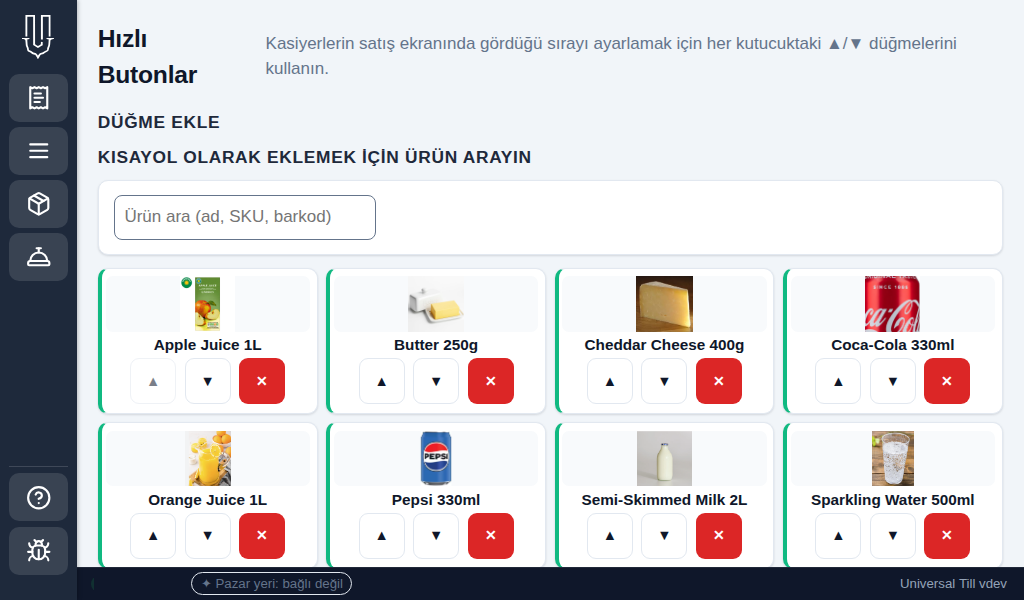
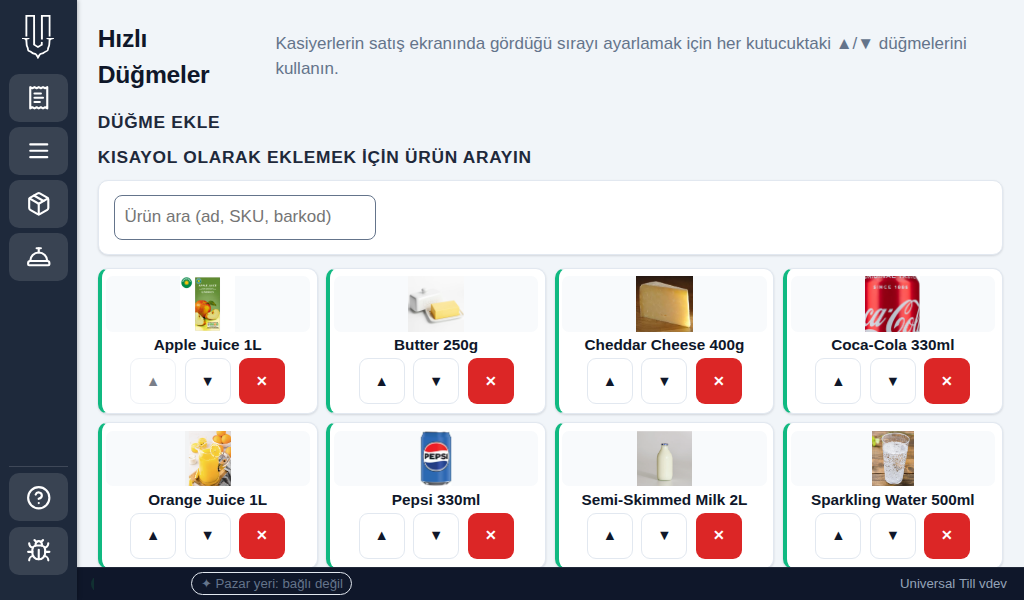
Address independent review findings: manual cross-references, terminology
Independent Opus review of this branch found the rename didn't reach
every place the old name was cross-referenced from, plus one
terminology inconsistency of its own making:

- catalog.md step 7, all 5 locales: still told the merchant to "use
  Till Designer"/"Kassen-Designer"/etc. to arrange quick-sale buttons —
  the manual's only cross-reference to this feature, now updated to
  match.
- German manual (reports.md, sell.md, order-status.md, self-order.md):
  "Journal" renamed to "Kassenjournal" throughout, matching nav.journal/
  journal.title's own fix in the previous commit. Added "kassenjournal"
  to reports.md's search keywords.
- Turkish: "Hızlı Butonlar" (introduced by this branch) didn't match
  the rest of the product's Turkish vocabulary, which consistently uses
  "düğme" (designer.buttons: "Düğmeler", designer.add_button: "Düğme
  ekle", and the till-designer topic's own prose). Renamed to "Hızlı
  Düğmeler" in nav.designer/designer.title/products.empty and the
  manual topic, with correct vowel-harmony suffixes.
- German pack: designer.search_title said "Schnelltasten" (a different,
  pre-existing word) where the renamed feature is "Schnellwahltasten" —
  aligned.
- web/ui/partials/buttons.html: updated a stale HTML comment (not
  user-facing, just dev-facing prose) referencing the old name.

Regenerated docs-shots (catalog and till-designer topics both changed)
and re-ran scripts/audit-nav-i18n-parity.sh — clean.
[…]

Changed region(s): [[0.25, 0.06, 0.9375, 0.12], [0.0938, 0.09, 0.2188, 0.15]]

diff --git a/web/ui/partials/buttons.html b/web/ui/partials/buttons.html
@@ -7,7 +7,7 @@
     <!-- 2026-08-30 (product owner, live on the tablet, comparing against a
          competitor POS): a quick "add a product" affordance right here,
          like SumUp's own item grid has — the empty state used to just say
-         "add some in Designer" with no actual link to get there. -->
+         "add some in Quick Buttons" with no actual link to get there. -->
     <a class="btn primary compact products-add" href="/designer" data-testid="products-add-link">+ {{ T "products.add" }}</a>
   </div>
     <p class="empty">{{ T "products.empty" }}</p>

diff --git a/web/help/de/sell.md b/web/help/de/sell.md
@@ -19,7 +19,7 @@ Der Hauptbildschirm der Kasse: Artikel scannen oder auswählen, Zahlung entgegen
 3. Passen Sie die Menge an oder entfernen Sie Zeilen im Warenkorb, und tippen Sie dann auf **Zahlung** — dies öffnet ein Feld über den Artikelschaltflächen (der Warenkorb bleibt links sichtbar), in dem Sie Bargeld, Karte oder eine andere Methode wählen, oder zum Reiter „Aufteilen“ wechseln, um mehr als eine Zahlung auf denselben Verkauf zu nehmen. Schließen Sie das Feld (✕), um zurückzugehen und den Warenkorb anzupassen, ohne zu bezahlen. Für den schnellsten Checkout können Sie das Feld ganz überspringen: Die breite ⚡-Schaltfläche unter „Verkauf halten“ und „Zahlung“ belastet den gesamten Verkauf mit einem Tipp an die bevorzugte Zahlungsmethode Ihres Geschäfts — dieselbe exakte Belastung wie die eigene Schaltfläche dieser Methode im Feld (bis eine bevorzugte Methode eingerichtet ist, wird Bargeld verwendet).
 4. Halten Sie einen Warenkorb, um den nächsten Kunden zu bedienen, und rufen Sie ihn später ab; Rückerstattungen finden Sie unter der Verkaufshistorie.
 5. Haben Sie Tische eingerichtet (siehe **Tische & Sitzplan**), tippen Sie auf die Schaltfläche **Tisch** neben dem Vor-Ort-/Außer-Haus-Schalter, um die Tischauswahl zu öffnen, und wählen Sie dann einen Tisch — oder „Kein Tisch“, um ihn zu leeren — und der Dialog schließt sich von selbst. Die Auswahl eines Tisches reserviert ihn sofort — die Auswahl bietet nur freie Tische an, und ist ein Tisch inzwischen belegt worden, teilt die Kasse mit, dass er bereits besetzt ist, und behält Ihre aktuelle Wahl bei. Die Schaltfläche „Tisch“ erscheint nur, solange der Verkauf noch jemanden setzen kann — ein leerer, auf Vor Ort gestellter Warenkorb, oder einer mit mindestens einem Vor-Ort-Artikel. Eine reine Außer-Haus-Bestellung kann keinem Tisch zugewiesen werden, und das Umschalten oder Entfernen des letzten Vor-Ort-Artikels löscht die Zuweisung. Beim Halten und späteren Abrufen eines Warenkorbs bleibt erhalten, ob Vor Ort oder Außer Haus aktiv war, als Sie ihn gehalten haben. Eine gehaltene **Vor-Ort**-Bestellung behält ihren Tisch, angezeigt als Chip auf der Leiste der gehaltenen Bestellungen; tippen Sie auf **Tisch wechseln** auf der Leiste, um sie auf einen anderen freien Tisch zu verschieben, ohne sie zu verlieren oder fortzusetzen. Eine gehaltene reine Außer-Haus-Bestellung hat keinen zu wechselnden Tisch — genau wie ihr vor dem Halten keiner zugewiesen werden konnte —, die Leiste zeigt für sie also keine Steuerung „Tisch wechseln“ an; eine gehaltene gemischte Bestellung behält ihren Tisch und kann ihn wie eine Vor-Ort-Bestellung wechseln.
-6. Um einen abgeschlossenen Verkauf zu erstatten, öffnen Sie ihn aus Journal → Verkaufshistorie: Wählen Sie, welche Zeilen und wie viel von jeder zurückgegeben werden, (bereits erstattete Menge wird nachverfolgt, sodass Sie nicht mehr zurückgeben können, als verkauft wurde), und wählen Sie dann Bargeld oder die ursprüngliche Zahlungsart für die Rückerstattung. Trug der ursprüngliche Verkauf eine Servicegebühr, kommt Ihr Anteil davon automatisch zurück, im Verhältnis dazu, wie viel des Verkaufs Sie erstatten — erstatten Sie alles, kommt auch die gesamte Servicegebühr zurück. Die Rückerstattungssumme aktualisiert sich live auf dem Bildschirm, während Sie Mengen anpassen, sodass Sie den Betrag vor dem Absenden prüfen können.
+6. Um einen abgeschlossenen Verkauf zu erstatten, öffnen Sie ihn aus Kassenjournal → Verkaufshistorie: Wählen Sie, welche Zeilen und wie viel von jeder zurückgegeben werden, (bereits erstattete Menge wird nachverfolgt, sodass Sie nicht mehr zurückgeben können, als verkauft wurde), und wählen Sie dann Bargeld oder die ursprüngliche Zahlungsart für die Rückerstattung. Trug der ursprüngliche Verkauf eine Servicegebühr, kommt Ihr Anteil davon automatisch zurück, im Verhältnis dazu, wie viel des Verkaufs Sie erstatten — erstatten Sie alles, kommt auch die gesamte Servicegebühr zurück. Die Rückerstattungssumme aktualisiert sich live auf dem Bildschirm, während Sie Mengen anpassen, sodass Sie den Betrag vor dem Absenden prüfen können.
 
 ## Artikelanpassung
 
@@ -49,7 +49,7 @@ Zwei Segmente über dem Warenkorb — **Vor Ort** und **Außer Haus** — stelle
 
 **Ein Verkauf, manches bleibt, manches geht.** Unter dem Namen jedes Artikels im Warenkorb steht ein kleines Symbolpaar *nur für diesen Artikel* — 🍽 für Vor Ort, 🥡 für Außer Haus, das ausgefüllte ist aktiv. Tippen Sie auf 🥡 beim Kaffee, der mitgenommen wird, und 🍽 bleibt beim Kuchen aktiv, der bleibt. Bei einer Zeile mit einer Menge von 2 oder mehr verschiebt jeder Tipp **einen** davon in den anderen Modus: Zwei zusammen gebuchte Americanos, einmal auf 🥡 getippt, und Sie haben einen zum Bleiben und einen zum Mitnehmen auf zwei Zeilen — erneutes Tippen, und der zweite folgt. (Ein gewogener Artikel, oder einer, dessen Etikett den Preis festgelegt hat, wechselt als Ganzes.) Jeder Artikel wird nach seiner eigenen Wahl versteuert, die Summe aktualisiert sich, sobald Sie tippen, und auf einer steuer-inklusiven Kasse ändert sich der für den Kunden sichtbare Preis eines Artikels nie mit seinem Modus — nur die darin enthaltene Steuer (eine steuer-exklusive Kasse schlägt die Steuer oben auf, sodass sich ihre Summe bewegt). Enthält der Warenkorb erst einmal beide Arten, erscheint ein Chip **Gemischt** neben den Segmenten für den gesamten Verkauf, die dann **Alles Vor Ort** / **Alles Außer Haus** lesen: Tippen auf eines wandelt jeden Artikel zurück in einen einzigen Modus um.
 
-Dasselbe Produkt liegt in beiden Modi immer auf zwei getrennten Zeilen statt einer Menge von 2 — das ist Absicht, da sie unterschiedliche Steuer tragen —, und ein erneut gescannter Artikel schließt sich der jeweils gerade gewählten Modus-Zeile an. Ein gemischter Verkauf kann weiterhin einen Tisch haben (es sitzt ja jemand); nur ein reiner Außer-Haus-Verkauf kann keinen haben. Das Halten und Abrufen eines gemischten Verkaufs behält die Wahl jedes Artikels bei, und Beleg, Journal-Eintrag und Küchenbon markieren jeweils, welche Artikel blieben und welche mitgenommen wurden — ein reiner Vor-Ort- oder Außer-Haus-Verkauf wird genau wie bisher gedruckt.
+Dasselbe Produkt liegt in beiden Modi immer auf zwei getrennten Zeilen statt einer Menge von 2 — das ist Absicht, da sie unterschiedliche Steuer tragen —, und ein erneut gescannter Artikel schließt sich der jeweils gerade gewählten Modus-Zeile an. Ein gemischter Verkauf kann weiterhin einen Tisch haben (es sitzt ja jemand); nur ein reiner Außer-Haus-Verkauf kann keinen haben. Das Halten und Abrufen eines gemischten Verkaufs behält die Wahl jedes Artikels bei, und Beleg, Kassenjournal-Eintrag und Küchenbon markieren jeweils, welche Artikel blieben und welche mitgenommen wurden — ein reiner Vor-Ort- oder Außer-Haus-Verkauf wird genau wie bisher gedruckt.
 
 ## Einen Kunden mit einem Verkauf verknüpfen
 

diff --git a/web/help/de/order-status.md b/web/help/de/order-status.md
@@ -16,16 +16,16 @@ Markieren Sie den Fortschritt jeder Bestellung — in Zubereitung, fertig, abgeh
 
 1. Öffnen Sie **Bestellungen** — das 🛎-Symbol in der Seitenleiste des Verkaufsbildschirms oder über das ☰-Menü. Dies ist die *aktive* Warteschlange: aktuelle, noch laufende Verkäufe werden neueste zuerst mit ihrem jeweiligen Status aufgelistet.
 2. Tippen Sie auf **In Zubereitung**, wenn die Küche mit einer Bestellung beginnt, auf **Fertig**, wenn sie abgeholt werden kann, und auf **Abgeholt**, wenn der Kunde sie hat. Das kann jeder Bediener tun — keine Manager-PIN nötig.
-3. Jede Änderung zeichnet auf, wer sie wann vorgenommen hat, neben dem Status. Die Belegnummer verlinkt zum vollständigen Beleg im Journal — außer bei einer hier angezeigten Bestellung, weil sie an einer *anderen* Kasse aufgenommen wurde (siehe Hinweis unten), wo die Nummer zwar angezeigt, aber kein Link ist, da diese Kasse den Beleg selbst nicht besitzt.
+3. Jede Änderung zeichnet auf, wer sie wann vorgenommen hat, neben dem Status. Die Belegnummer verlinkt zum vollständigen Beleg im Kassenjournal — außer bei einer hier angezeigten Bestellung, weil sie an einer *anderen* Kasse aufgenommen wurde (siehe Hinweis unten), wo die Nummer zwar angezeigt, aber kein Link ist, da diese Kasse den Beleg selbst nicht besitzt.
 4. **Bestellung stornieren** markiert eine Bestellung als storniert. Dies funktioniert jederzeit, bis die Bestellung abgeholt ist; eine abgeholte Bestellung kann nicht storniert werden.
-5. Das Markieren einer Bestellung als **Abgeholt** oder ihre Stornierung entfernt sie sofort aus dieser Liste — sie ist erledigt und nimmt daher keinen Platz mehr in der aktiven Warteschlange ein. Nichts wird gelöscht: Der Beleg, jede Statusänderung und wer was getan hat bleiben genau dort, wo sie immer waren, im Journal.
+5. Das Markieren einer Bestellung als **Abgeholt** oder ihre Stornierung entfernt sie sofort aus dieser Liste — sie ist erledigt und nimmt daher keinen Platz mehr in der aktiven Warteschlange ein. Nichts wird gelöscht: Der Beleg, jede Statusänderung und wer was getan hat bleiben genau dort, wo sie immer waren, im Kassenjournal.
 6. Der Status einer Bestellung bewegt sich immer nur vorwärts (Abgeholt und Storniert sind das Ende der Kette). Ein versehentliches Antippen eines früheren Schritts (oder eine zweite Kasse, die nach einer Offline-Phase einen alten Status meldet) ändert nichts — die Kasse zeigt einfach weiter den späteren Status. Das ist Absicht, kein Fehler.
 7. Bestellungen aus Verkäufen vor Einführung dieser Funktion (oder die noch niemand angetippt hat) zeigen **Nicht begonnen** — für sie ändert sich nichts, bis jemand einen Status antippt.
 
 ## Hinweise
 
 - Die Liste aktualisiert sich selbst alle paar Sekunden — neue Bestellungen (einschließlich am Selbstbedienungskiosk aufgegebener) erscheinen ohne Neuladen der Seite.
-- Konnte ein Küchenbon oder Beleg nicht gedruckt werden — ein Drucker ohne Papier, nicht angeschlossen oder offline —, zeigt die Bestellung ein ⚠-Warnsymbol neben ihrem Status, damit eine bezahlte Bestellung (zum Beispiel vom Selbstbedienungskiosk) nie stillschweigend verloren geht. Ein ⚠ bei der Küche bedeutet, dass die Küche den Bon nie erhalten hat: Beheben Sie den Drucker und geben Sie die Bestellung selbst an die Küche weiter. Ein ⚠ beim Beleg verschwindet, sobald Sie den Drucker beheben und diesen Beleg von der Bestellseite im Journal aus erneut drucken.
+- Konnte ein Küchenbon oder Beleg nicht gedruckt werden — ein Drucker ohne Papier, nicht angeschlossen oder offline —, zeigt die Bestellung ein ⚠-Warnsymbol neben ihrem Status, damit eine bezahlte Bestellung (zum Beispiel vom Selbstbedienungskiosk) nie stillschweigend verloren geht. Ein ⚠ bei der Küche bedeutet, dass die Küche den Bon nie erhalten hat: Beheben Sie den Drucker und geben Sie die Bestellung selbst an die Küche weiter. Ein ⚠ beim Beleg verschwindet, sobald Sie den Drucker beheben und diesen Beleg von der Bestellseite im Kassenjournal aus erneut drucken.
 - Sind mehrere Kassen verbunden, zeigt und aktualisiert jede Kasse die Bestellungen des ganzen Geschäfts über die Hauptkasse, solange diese erreichbar ist — nicht nur die Kasse, die die Bestellung aufgenommen hat. Eine Kasse, die die Hauptkasse nicht erreichen kann, arbeitet weiter mit ihrer eigenen lokalen Liste und zeigt das gemeinsame Board wieder an, sobald die Verbindung zurück ist — eine Statusänderung, die *während der Trennung* vorgenommen wird, wird jedoch nirgendwohin gesendet: Sobald diese Kasse sich wieder verbindet, wechselt ihr Bildschirm zurück zum gemeinsamen Board, und jedes während der Trennung gemachte Tippen kann von diesem Bildschirm sichtbar verschwinden (ein Manager, der auf einer wirklich offline befindlichen Kasse auf „Fertig“ tippt, sollte dies nach der Wiederverbindung der Kasse noch einmal prüfen). Eine brandneue Bestellung erscheint ebenfalls nicht auf dem gemeinsamen Board — auch nicht auf der Kasse, die sie gerade aufgenommen hat —, bis sie mit der Hauptkasse fertig synchronisiert ist, normalerweise wenige Sekunden.
 - Alles hier funktioniert vollständig offline, wie der Rest der Kasse.
 - Dieser Bildschirm ist die Grundlage für Kommendes: eine Küchenanzeige, Kunden-Pager und Bestellverfolgung werden alle denselben Status-Vorgaben folgen.

diff --git a/web/help/fa/catalog.md b/web/help/fa/catalog.md
@@ -28,7 +28,7 @@ routes: [/catalog, /import]
 4. نرخ مالیات بیرونبر برای ذخیرهٔ استثنای خود نیاز دارد افزونهٔ مالیات آلمان فعال باشد — اگر نصب شده اما خاموش است، درونریزی همچنان کدهای مالیات درست را میسازد اما در خلاصه هشدار میدهد که استثنای بیرونبر اعمال نشد؛ افزونه را فعال کرده و درونریزی را دوباره اجرا کنید.
 5. اولین باری که کالاهای قیمتدار را در دستگاهی درونریزی میکنید که ارز آن هرگز بهصراحت تنظیم نشده، درونریزی پیش از نوشتن هر چیزی متوقف میشود و میپرسد قیمتهای فایل به کدام ارز هستند — دستگاه تازه بهطور پیشفرض روی پوند (GBP) است، بنابراین درونریزی یک کاتالوگ خارجی بدون بررسی این موضوع میتواند همهچیز را با ارز نادرست قیمتگذاری کند. اگر ارز نمایشدادهشده درست است تأیید کنید یا ارز درست را انتخاب کنید؛ در هر صورت درونریزی بهطور خودکار ادامه مییابد و پس از تنظیم ارز دستگاه، دیگر پرسیده نمیشود.
 6. اینکه اسکن یا ورود دستی کدام انواع بارکد را میپذیرد، از تنظیمات ← انواع بارکد برای هر فروشگاه تعیین میشود. هر نوع رایج خردهفروشی (EAN-13، EAN-8، UPC-A، UPC-E، GTIN-14، Code 128، Code 39، کدهای داخلی/PLU) بهطور پیشفرض فعال است، بنابراین بارکدهای موجود دقیقاً مثل قبل کار میکنند. دو نوع برچسب ترازو (وزن جاسازیشده و قیمت جاسازیشدهٔ EAN-13) بهطور پیشفرض غیرفعالاند — فقط زمانی یکی را فعال کنید که آماده استفاده از برچسبهای چاپشده ترازو باشید، زیرا نحوه خواندن کد منطبق را تغییر میدهد.
-7. برای تنظیم اینکه کدام کالاها بهعنوان دکمههای فروش سریع در صفحه فروش نمایش داده شوند، از **طراح صندوق** استفاده کنید.
+7. برای تنظیم اینکه کدام کالاها بهعنوان دکمههای فروش سریع در صفحه فروش نمایش داده شوند، از **دکمههای سریع** استفاده کنید.
 
 ## دانستنیها
 

diff --git a/web/help/de/reports.md b/web/help/de/reports.md
@@ -5,7 +5,7 @@ section: Den Betrieb führen
 order: 210
 summary: Umsatzsummen nach Tag, Abteilung und Zahlungsart; Bestseller und Ladenhüter; tote Ware; umsatzstärkste Tage und Stunden; Margen; Steuerübersicht; Jahresvergleich — plus der Tagesabschlussbericht (Z) zum Kassieren.
 routes: [/reports, /journal, /journal/{receipt}, /shifts, /audit]
-keywords: [z-bericht, tagesabschluss, tageseinnahmen, journal, schicht, prüfprotokoll, trinkgeld, tronc, servicegebühr, mitarbeiterzuweisung]
+keywords: [z-bericht, tagesabschluss, tageseinnahmen, journal, kassenjournal, schicht, prüfprotokoll, trinkgeld, tronc, servicegebühr, mitarbeiterzuweisung]
 ---
 
 # Berichte & Tagesabschluss
@@ -285,9 +285,9 @@ Sie eine Zahl wie „insgesamt ausgezahlte Pfandbeträge diese Woche“ sehen
 können, ohne die Prüfprotokoll-Seite zu öffnen. Sie erscheint erst, sobald es
 mindestens eine Anpassung im Zeitraum gibt.
 
-## Verkäufe aller Kassen sehen (Journal)
+## Verkäufe aller Kassen sehen (Kassenjournal)
 
-Die Journal-Seite (die Beleg-/Sync-Liste außerhalb des Verkaufsbildschirms)
+Die Kassenjournal-Seite (die Beleg-/Sync-Liste außerhalb des Verkaufsbildschirms)
 zeigt standardmäßig die Verkäufe aller Kassen, neueste zuerst, mit der Kasse,
 die jede Bestellung aufgenommen hat, in ihrer eigenen Spalte — sodass eine
 Maschine die gesamten Einnahmen des Geschäfts überblicken kann, ohne zu jedem
@@ -315,7 +315,7 @@ Eine Kasse zeigt hier „—“, wenn sie nie in Kontakt stand, oder (bei einer
 Replika) weil ihre Kontaktzeit nicht von der Primärkasse heruntergegeben wird.
 
 Nur die Primärkasse eines Geschäfts sammelt die Verkäufe anderer Kassen — eine
-Replika-Kasse hat für das Journal immer nur ihre eigenen lokalen Verkäufe,
+Replika-Kasse hat für das Kassenjournal immer nur ihre eigenen lokalen Verkäufe,
 unabhängig vom gewählten Kassenfilter, da eine Replika ihre eigenen Verkäufe
 immer nur einseitig nach oben zur Primärkasse überträgt und niemals die
 Verkäufe der Geschwister zurückerhält. Die Wahl von „Alle Kassen“ oder einer
@@ -372,7 +372,7 @@ Software erkennt oder bewegt kein Geld von sich aus.
 
 ## Eine Kartenzahlung abgleichen (Belegdetail)
 
-Das Öffnen eines Belegs aus dem Journal zeigt sein vollständiges
+Das Öffnen eines Belegs aus dem Kassenjournal zeigt sein vollständiges
 Zahlungsdetail — hier wird eine Kartenzahlung im Nachhinein abgeglichen,
 Tage nach dem Verkauf. Wurde eine Zahlung an einem Präsenz-Kartenterminal
 entgegengenommen, zeigt ihre Zahlungszeile die maskierte Kartennummer und den

diff --git a/web/help/ar/catalog.md b/web/help/ar/catalog.md
@@ -28,7 +28,7 @@ routes: [/catalog, /import]
 4. نسبة ضريبة التيك أواي تحتاج إلى تفعيل إضافة الضريبة الألمانية لحفظ استثنائها — إذا كانت مثبّتة لكن معطّلة، يُنشئ الاستيراد رموز الضريبة الصحيحة لكن يحذّر الملخص أن استثناء التيك أواي لم يُطبّق؛ فعّل الإضافة وأعد تشغيل الاستيراد لإصلاح ذلك.
 5. أول مرة تستورد فيها أصنافًا مُسعّرة إلى جهاز لم تُحدَّد عملته صراحةً من قبل، يتوقف الاستيراد قبل كتابة أي شيء ويطلب منك تأكيد العملة التي بها أسعار الملف — يستخدم الجهاز الجديد الجنيه الإسترليني (GBP) افتراضيًا، لذا استيراد كتالوج أجنبي دون التحقق من ذلك قد يُسعّر كل شيء بعملة خاطئة. أكّد العملة المعروضة إذا كانت صحيحة أو اختر العملة الصحيحة؛ في الحالتين يتابع الاستيراد تلقائيًا ولن يسأل مجددًا بعد تحديد عملة الجهاز.
 6. يتم التحكم في أنواع الباركود التي يقبلها المسح أو الإدخال اليدوي لكل متجر من الإعدادات ← أنواع الباركود. كل نوع بيع بالتجزئة شائع (EAN-13، EAN-8، UPC-A، UPC-E، GTIN-14، Code 128، Code 39، الرموز الداخلية/PLU) مفعّل افتراضيًا، لذا تستمر الباركودات الحالية بالعمل كما هي. نوعا ملصق الميزان (وزن مضمّن وسعر مضمّن EAN-13) معطّلان افتراضيًا — فعّل أحدهما فقط عند الاستعداد لاستخدام ملصقات الميزان المطبوعة، لأن ذلك يغيّر طريقة قراءة الرمز المطابق.
-7. لترتيب الأصناف التي تظهر كأزرار بيع سريع على شاشة البيع، استخدم **مصمّم الصندوق**.
+7. لترتيب الأصناف التي تظهر كأزرار بيع سريع على شاشة البيع، استخدم **الأزرار السريعة**.
 
 ## من المفيد معرفته
 

diff --git a/web/help/de/catalog.md b/web/help/de/catalog.md
@@ -31,7 +31,7 @@ Ihre Produkte: Namen, Preise, Abteilungen, Artikelvarianten (Größe, Geschmack 
 4. Ein Außer-Haus-Steuersatz benötigt das aktivierte deutsche Steuer-Plugin, um seine Überschreibung zu speichern — ist es installiert, aber ausgeschaltet, legt der Import weiterhin korrekte Steuercodes an, die Zusammenfassung weist jedoch darauf hin, dass die Außer-Haus-Überschreibung nicht angewendet wurde; aktivieren Sie das Plugin und wiederholen Sie den Import, um dies zu beheben.
 5. Importieren Sie zum ersten Mal Artikel mit Preisen auf einer Kasse, deren Währung Sie nie ausdrücklich festgelegt haben, hält der Import an, bevor irgendetwas geschrieben wird, und bittet Sie zu bestätigen, in welcher Währung die Preise der Datei angegeben sind — eine neue Kasse verwendet standardmäßig GBP, sodass ein ausländischer Katalog ohne diese Prüfung sonst versehentlich in der falschen Währung bepreist werden könnte. Bestätigen Sie die angezeigte Währung, falls sie stimmt, oder wählen Sie die richtige; so oder so läuft der Import automatisch weiter und fragt nicht erneut, sobald die Währung Ihrer Kasse einmal festgelegt ist.
 6. Welche Barcode-Typen ein Scan oder eine manuelle Eingabe akzeptiert, wird pro Geschäft unter Einstellungen → Barcode-Typen festgelegt. Jeder gängige Einzelhandelstyp (EAN-13, EAN-8, UPC-A, UPC-E, GTIN-14, Code 128, Code 39, interne/PLU-Codes) ist standardmäßig aktiviert, sodass bestehende Barcodes weiterhin genau wie bisher funktionieren. Die beiden Waagenetikett-Typen (gewichts- und preiseingebettetes EAN-13) sind standardmäßig deaktiviert — aktivieren Sie einen erst, wenn Sie bereit sind, waagengedruckte Etiketten zu verwenden, da sich dadurch ändert, wie ein passender Code gelesen wird.
-7. Um festzulegen, welche Artikel als Schnellverkaufsschaltflächen auf dem Verkaufsbildschirm erscheinen, verwenden Sie den **Kassen-Designer**.
+7. Um festzulegen, welche Artikel als Schnellverkaufsschaltflächen auf dem Verkaufsbildschirm erscheinen, verwenden Sie **Schnellwahltasten**.
 
 ## Gut zu wissen
 

diff --git a/web/help/tr/catalog.md b/web/help/tr/catalog.md
@@ -28,7 +28,7 @@ routes: [/catalog, /import]
 4. Paket servis vergi oranının uygulanması için Alman vergi eklentisinin etkin olması gerekir — kurulu ama devre dışıysa, içe aktarma yine doğru vergi kodlarını oluşturur ama özet, paket servis oranının uygulanmadığını belirtir; eklentiyi etkinleştirip içe aktarmayı yeniden çalıştırın.
 5. Para birimi hiç açıkça ayarlanmamış bir kasaya fiyatlı ürünler ilk kez içe aktarıldığında, İçe aktar hiçbir şey yazmadan önce durur ve dosyadaki fiyatların hangi para biriminde olduğunu onaylamanızı ister — yeni bir kasa varsayılan olarak GBP kullanır, bu yüzden bunu kontrol etmeden yabancı bir katalog içe aktarmak her şeyi yanlış para biriminde fiyatlandırabilir. Gösterilen para birimi doğruysa onaylayın veya doğru olanı seçin; her durumda içe aktarma otomatik olarak devam eder ve kasanızın para birimi ayarlandıktan sonra bir daha sormaz.
 6. Bir taramanın veya elle girişin hangi barkod türlerini kabul ettiği, Ayarlar → Barkod türleri üzerinden mağaza bazında denetlenir. Yaygın perakende türlerinin tümü (EAN-13, EAN-8, UPC-A, UPC-E, GTIN-14, Code 128, Code 39, dahili/PLU kodları) varsayılan olarak açıktır, böylece mevcut barkodlar tıpkı önceki gibi çalışmaya devam eder. İki tartı etiketi türü (ağırlık gömülü ve fiyat gömülü EAN-13) varsayılan olarak kapalıdır — eşleşen bir kodun nasıl okunduğunu değiştirdiği için, yalnızca basılı tartı etiketlerini kullanmaya hazır olduğunuzda birini açın.
-7. Satış ekranında hangi ürünlerin hızlı satış düğmesi olarak görüneceğini düzenlemek için **Kasa Tasarımcısı**'nı kullanın.
+7. Satış ekranında hangi ürünlerin hızlı satış düğmesi olarak görüneceğini düzenlemek için **Hızlı Düğmeler**'i kullanın.
 
 ## Bilmekte fayda var
 

diff --git a/web/help/en/catalog.md b/web/help/en/catalog.md
@@ -31,7 +31,7 @@ Your products: names, prices, departments, item variants (size, flavour…) and 
 4. A takeaway tax rate needs the German tax plugin enabled to save its override — if it's installed but switched off, the import still creates correct tax codes but the summary warns that the takeaway override wasn't applied; enable the plugin and re-run the import to fix it.
 5. The first time you import priced items on a till whose currency you've never explicitly set, Import stops before writing anything and asks you to confirm which currency the file's prices are in — a fresh till defaults to GBP, so importing a foreign catalogue without checking this could otherwise price everything under the wrong currency. Confirm the currency shown if it's right, or pick the correct one; either way Import proceeds automatically and won't ask again once your till's currency has been set.
 6. Which barcode types a scan or manual entry accepts is controlled per shop from Settings → Barcode types. Every common retail type (EAN-13, EAN-8, UPC-A, UPC-E, GTIN-14, Code 128, Code 39, internal/PLU codes) is on by default, so existing barcodes keep working exactly as before. The two scale-label types (weight-embedded and price-embedded EAN-13) are off by default — turn one on only once you're ready to use scale-printed labels, since it changes how a matching code is read.
-7. To arrange which items appear as quick-sale buttons on the sale screen, use **Till Designer**.
+7. To arrange which items appear as quick-sale buttons on the sale screen, use **Quick Buttons**.
 
 ## Good to know
 

diff --git a/web/help/tr/till-designer.md b/web/help/tr/till-designer.md
@@ -1,20 +1,20 @@
 ---
 id: till-designer
-title: Hızlı Butonlar
+title: Hızlı Düğmeler
 section: Dükkanı kurma
 order: 115
 summary: Satış ekranında görünen hızlı satış düğmelerini ve ürün ızgarasını düzenleyin.
 routes: [/designer]
-keywords: [hızlı butonlar, tasarımcı, düğmeler, düzen, ürün ızgarası, hızlı satış, satış ekranı]
+keywords: [hızlı düğmeler, tasarımcı, düğmeler, düzen, ürün ızgarası, hızlı satış, satış ekranı]
 ---
 
-# Hızlı Butonlar
+# Hızlı Düğmeler
 
 Satış ekranında görünen hızlı satış düğmelerini ve ürün ızgarasını düzenleyin.
 
 ## Nasıl kullanılır
 
-1. **Hızlı Butonlar**'ı açın ve bir ürünü bulmak için arama kutusunu kullanın; hızlı satış düğmesi olarak eklemek için üzerine dokunun.
+1. **Hızlı Düğmeler**'i açın ve bir ürünü bulmak için arama kutusunu kullanın; hızlı satış düğmesi olarak eklemek için üzerine dokunun.
 2. Bir düğmeyi ızgarada daha öne veya sonraya taşımak için üzerindeki ▲/▼ oklarına dokunun — bu, dokunma, fare veya klavyeyle aynı şekilde çalışır, dolayısıyla yalnızca masaüstünden değil kasanın kendisinden de kullanılabilir.
 3. Bir düğmeyi satış ekranından kaldırmak için üzerindeki ✕'e dokunun. Bir düğmeyi kaldırmak, ürünün kendisini Kataloğunuzdan asla kaldırmaz.
 

diff --git a/web/help/de/self-order.md b/web/help/de/self-order.md
@@ -13,4 +13,4 @@ Selbstbedienung verwandelt eine Kasse in einen kundenseitigen Bildschirm, auf de
 
 Kunden finden Artikel, indem sie auf Kategorie-Chips tippen — auf diesem Bildschirm gibt es bewusst kein Suchfeld.
 
-Der Warenkorb trägt denselben Vor-Ort-/Außer-Haus-Schalter wie der Warenkorb des Kassierers, sodass ein Selbstbedienungskunde seine eigene Bestellung als Außer Haus markieren kann (oder zurückwechselt). Dies wird auf Beleg, Journal und Küchenbon vermerkt; es ändert die berechnete Steuer nur, wenn ein Steuer-Plugin für Ihre Region es verwendet, um einen anderen Satz zu wählen.
+Der Warenkorb trägt denselben Vor-Ort-/Außer-Haus-Schalter wie der Warenkorb des Kassierers, sodass ein Selbstbedienungskunde seine eigene Bestellung als Außer Haus markieren kann (oder zurückwechselt). Dies wird auf Beleg, Kassenjournal und Küchenbon vermerkt; es ändert die berechnete Steuer nur, wenn ein Steuer-Plugin für Ihre Region es verwendet, um einen anderen Satz zu wählen.
